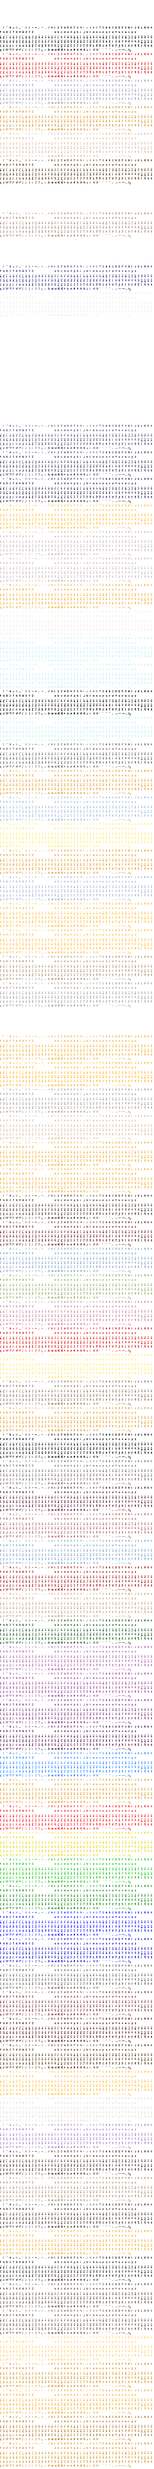
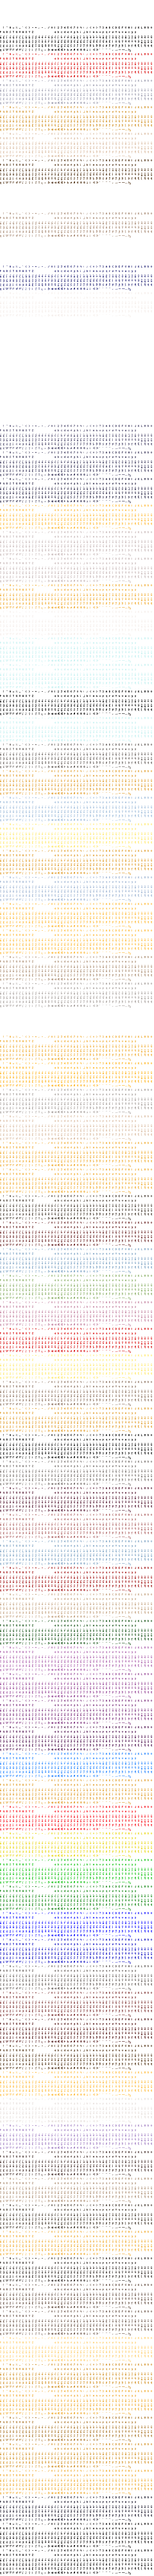
Advisor list box: the original's text colours and shadows, a stone-blue fill under the glass frame
Claude-Session: https://claude.ai/code/session_01UzZBhxgr4mZQchpKgqbg2J

diff --git a/crates/f4x-client/src/advisor.rs b/crates/f4x-client/src/advisor.rs
@@ -4,7 +4,8 @@
 //! Mirror. The list box is the original's `Selection_Box` (`GENDRAW.c`), also used by the Tax
 //! Collector. History and Astrologer are screens of their own here.
 
-use crate::font::Style;
+use crate::font::{rgb, Ink, Style};
+use crate::font_ramp;
 use crate::input::Input;
 use crate::text::Args;
 use crate::ui;
@@ -62,21 +63,21 @@ impl Modal for VizierAsk {
 }
 
 /// The pieces of the box in `resource.lbx`: left, top, right, bottom, bottom left, bottom
-/// right, the brown fill under them, then the row buttons (frame 0 plain, 1 lit) and their 2-pixel right ends.
+/// right, then the row buttons (frame 0 plain, 1 lit) and their 2-pixel right ends.
 const LEFT: usize = 5;
 const BOTTOM_LEFT: usize = 6;
 const TOP: usize = 7;
 const RIGHT: usize = 8;
 const BOTTOM: usize = 9;
 const BOTTOM_RIGHT: usize = 10;
-const FILL: usize = 11;
+/// What the frame's glass pieces lie on: the dark blue of the top piece, so the sides and the bottom
+/// show as marble of the same stone and not the map (or the brown of the buttons) through them.
+const FILL: Color = Color::new(0.16, 0.15, 0.27, 1.0);
 const BUTTONS: usize = 12;
 const BUTTON_ENDS: usize = 22;
 const ROW_HEIGHT: f32 = 14.0;
 const TOP_HEIGHT: f32 = 18.0;
 const BOTTOM_HEIGHT: f32 = 14.0;
-const FILL_WIDTH: f32 = 16.0;
-const FILL_HEIGHT: f32 = 153.0;
 const SIDE_WIDTH: f32 = 16.0;
 const RIGHT_WIDTH: f32 = 18.0;
 
@@ -297,20 +298,10 @@ impl App {
             ui::hit(row, true, input).hovered()
         });
 
-        // The frame's pieces tint what is under them (the original's glass colours): the box is
-        // first filled with the brown strip of `resource.lbx` (two pixels short of the edge, where the
-        // frame has no marble), so the map does not shine through.
-        self.clipped((x1 + 2.0, y1 + 2.0, width - 4.0, height - 4.0), |app| {
-            let mut y = y1;
-            while y < y1 + height {
-                let mut x = x1;
-                while x < x1 + width {
-                    app.draw_pic(&lay, "resource", FILL, 0, x, y);
-                    x += FILL_WIDTH;
-                }
-                y += FILL_HEIGHT;
-            }
-        });
+        // The frame's side and bottom pieces are glass (the original's tint colours): on the map they
+        // would show it through, so the box is first filled with the stone's dark blue.
+        let r = lay.rect((x1 + 1.0, y1 + 1.0, width - 2.0, height - 2.0));
+        draw_rectangle(r.x, r.y, r.w, r.h, FILL);
         // The top, the bottom and the row buttons are wider than any box: they are cut at the
         // frame's inner edge, so nothing of them shows through the frame's own pieces.
         let inner = (
@@ -363,33 +354,39 @@ impl App {
             );
         });
 
+        // The title is two copies, the dark one a pixel to the lower right of the gold one; a row
+        // is dark red with a gold shadow, lit it is gold with a brighter shadow
+        // (`Selection_Box_Draw`: the colours are palette entries 53, 182 and 178).
         let mid = (x1 + x2) / 2.0;
-        let shadow = Color::new(0.0, 0.0, 0.0, 1.0);
         self.draw_styled(
             view,
-            &Style::nearest(4, shadow).center(),
+            &Style::inked(4, Ink::Set(font_ramp::SELECT_TITLE_SHADOW)).center(),
             &sel.title,
             mid + 1.0,
             y1 + 5.0,
         );
         self.draw_styled(
             view,
-            &Style::nearest(4, Color::new(0.95, 0.85, 0.5, 1.0)).center(),
+            &Style::inked(4, Ink::Set(font_ramp::SELECT_TITLE)).center(),
             &sel.title,
             mid,
             y1 + 4.0,
         );
         for (i, row) in sel.rows.iter().enumerate() {
             let y = y1 + TOP_HEIGHT + ROW_HEIGHT * i as f32 + 2.0;
-            let colour = if hover == Some(i) {
-                Color::new(1.0, 0.95, 0.75, 1.0)
+            let style = if hover == Some(i) {
+                Style::inked(4, Ink::Set(font_ramp::SELECT_ITEM_HOVER))
+                    .shadow()
+                    .edge(rgb(239, 166, 36))
             } else {
-                Color::new(0.8, 0.62, 0.3, 1.0)
+                Style::inked(4, Ink::Set(font_ramp::SELECT_ITEM))
+                    .shadow()
+                    .edge(rgb(166, 109, 28))
             };
             let x = x1 + SIDE_WIDTH + 4.0;
-            self.draw_styled(view, &Style::nearest(4, colour), &row.left, x, y);
+            self.draw_styled(view, &style, &row.left, x, y);
             if !row.right.is_empty() {
-                self.draw_styled(view, &Style::nearest(4, colour), &row.right, x + row.tab, y);
+                self.draw_styled(view, &style, &row.right, x + row.tab, y);
             }
         }
 

diff --git a/crates/f4x-client/src/font_ramp.rs b/crates/f4x-client/src/font_ramp.rs
@@ -157,8 +157,16 @@ pub(crate) const MENU_WORD: usize = 90;
 pub(crate) const MENU_WORD_HOVER: usize = 91;
 /// the army list's Items and Ok: gold, darker towards the bottom.
 pub(crate) const PANEL_WORD: usize = 92;
+/// the selection box's title, the gold on top (Selection_Box_Draw: COL_ListSel_Shadows).
+pub(crate) const SELECT_TITLE: usize = 93;
+/// the selection box's title, the dark copy a pixel to the lower right (COL_ListSel_Titles).
+pub(crate) const SELECT_TITLE_SHADOW: usize = 94;
+/// the selection box's rows: the alias colour 53 on the black set 1 (Set_Alias_Color(53)).
+pub(crate) const SELECT_ITEM: usize = 95;
+/// the selection box's row under the mouse (Set_Alias_Color(182)).
+pub(crate) const SELECT_ITEM_HOVER: usize = 96;
 /// How many ramps there are; the atlases of styles 0 to 5 stack 16 + this many colour sets.
-pub(crate) const COUNT: usize = 77;
+pub(crate) const COUNT: usize = 81;
 
 /// The colour set of one palette colour on its own (`FLATS` in the script); a colour not
 /// listed there panics: add it to `FLATS` and run the script again.

diff --git a/scripts/font_ramps.py b/scripts/font_ramps.py
@@ -67,6 +67,10 @@ LATE = [
     ("MENU_WORD", None, [0, 178, 177, 176, 176], "the start menu's words: gold, light on top (its `vortex` pictures)"),
     ("MENU_WORD_HOVER", None, [0, 182, 180, 178, 178], "the start menu's word under the mouse: the same gold, darker"),
     ("PANEL_WORD", None, [0, 180, 180, 179, 178], "the army list's Items and Ok: gold, darker towards the bottom"),
+    ("SELECT_TITLE", None, [20, 178, 179, 180, 180], "the selection box's title, the gold on top (Selection_Box_Draw: COL_ListSel_Shadows)"),
+    ("SELECT_TITLE_SHADOW", ("resource", 7), [102, 251, 251, 251, 251], "the selection box's title, the dark copy a pixel to the lower right (COL_ListSel_Titles)"),
+    ("SELECT_ITEM", None, [53, 1], "the selection box's rows: the alias colour 53 on the black set 1 (Set_Alias_Color(53))"),
+    ("SELECT_ITEM_HOVER", None, [182, 1], "the selection box's row under the mouse (Set_Alias_Color(182))"),
 ]
 
 
